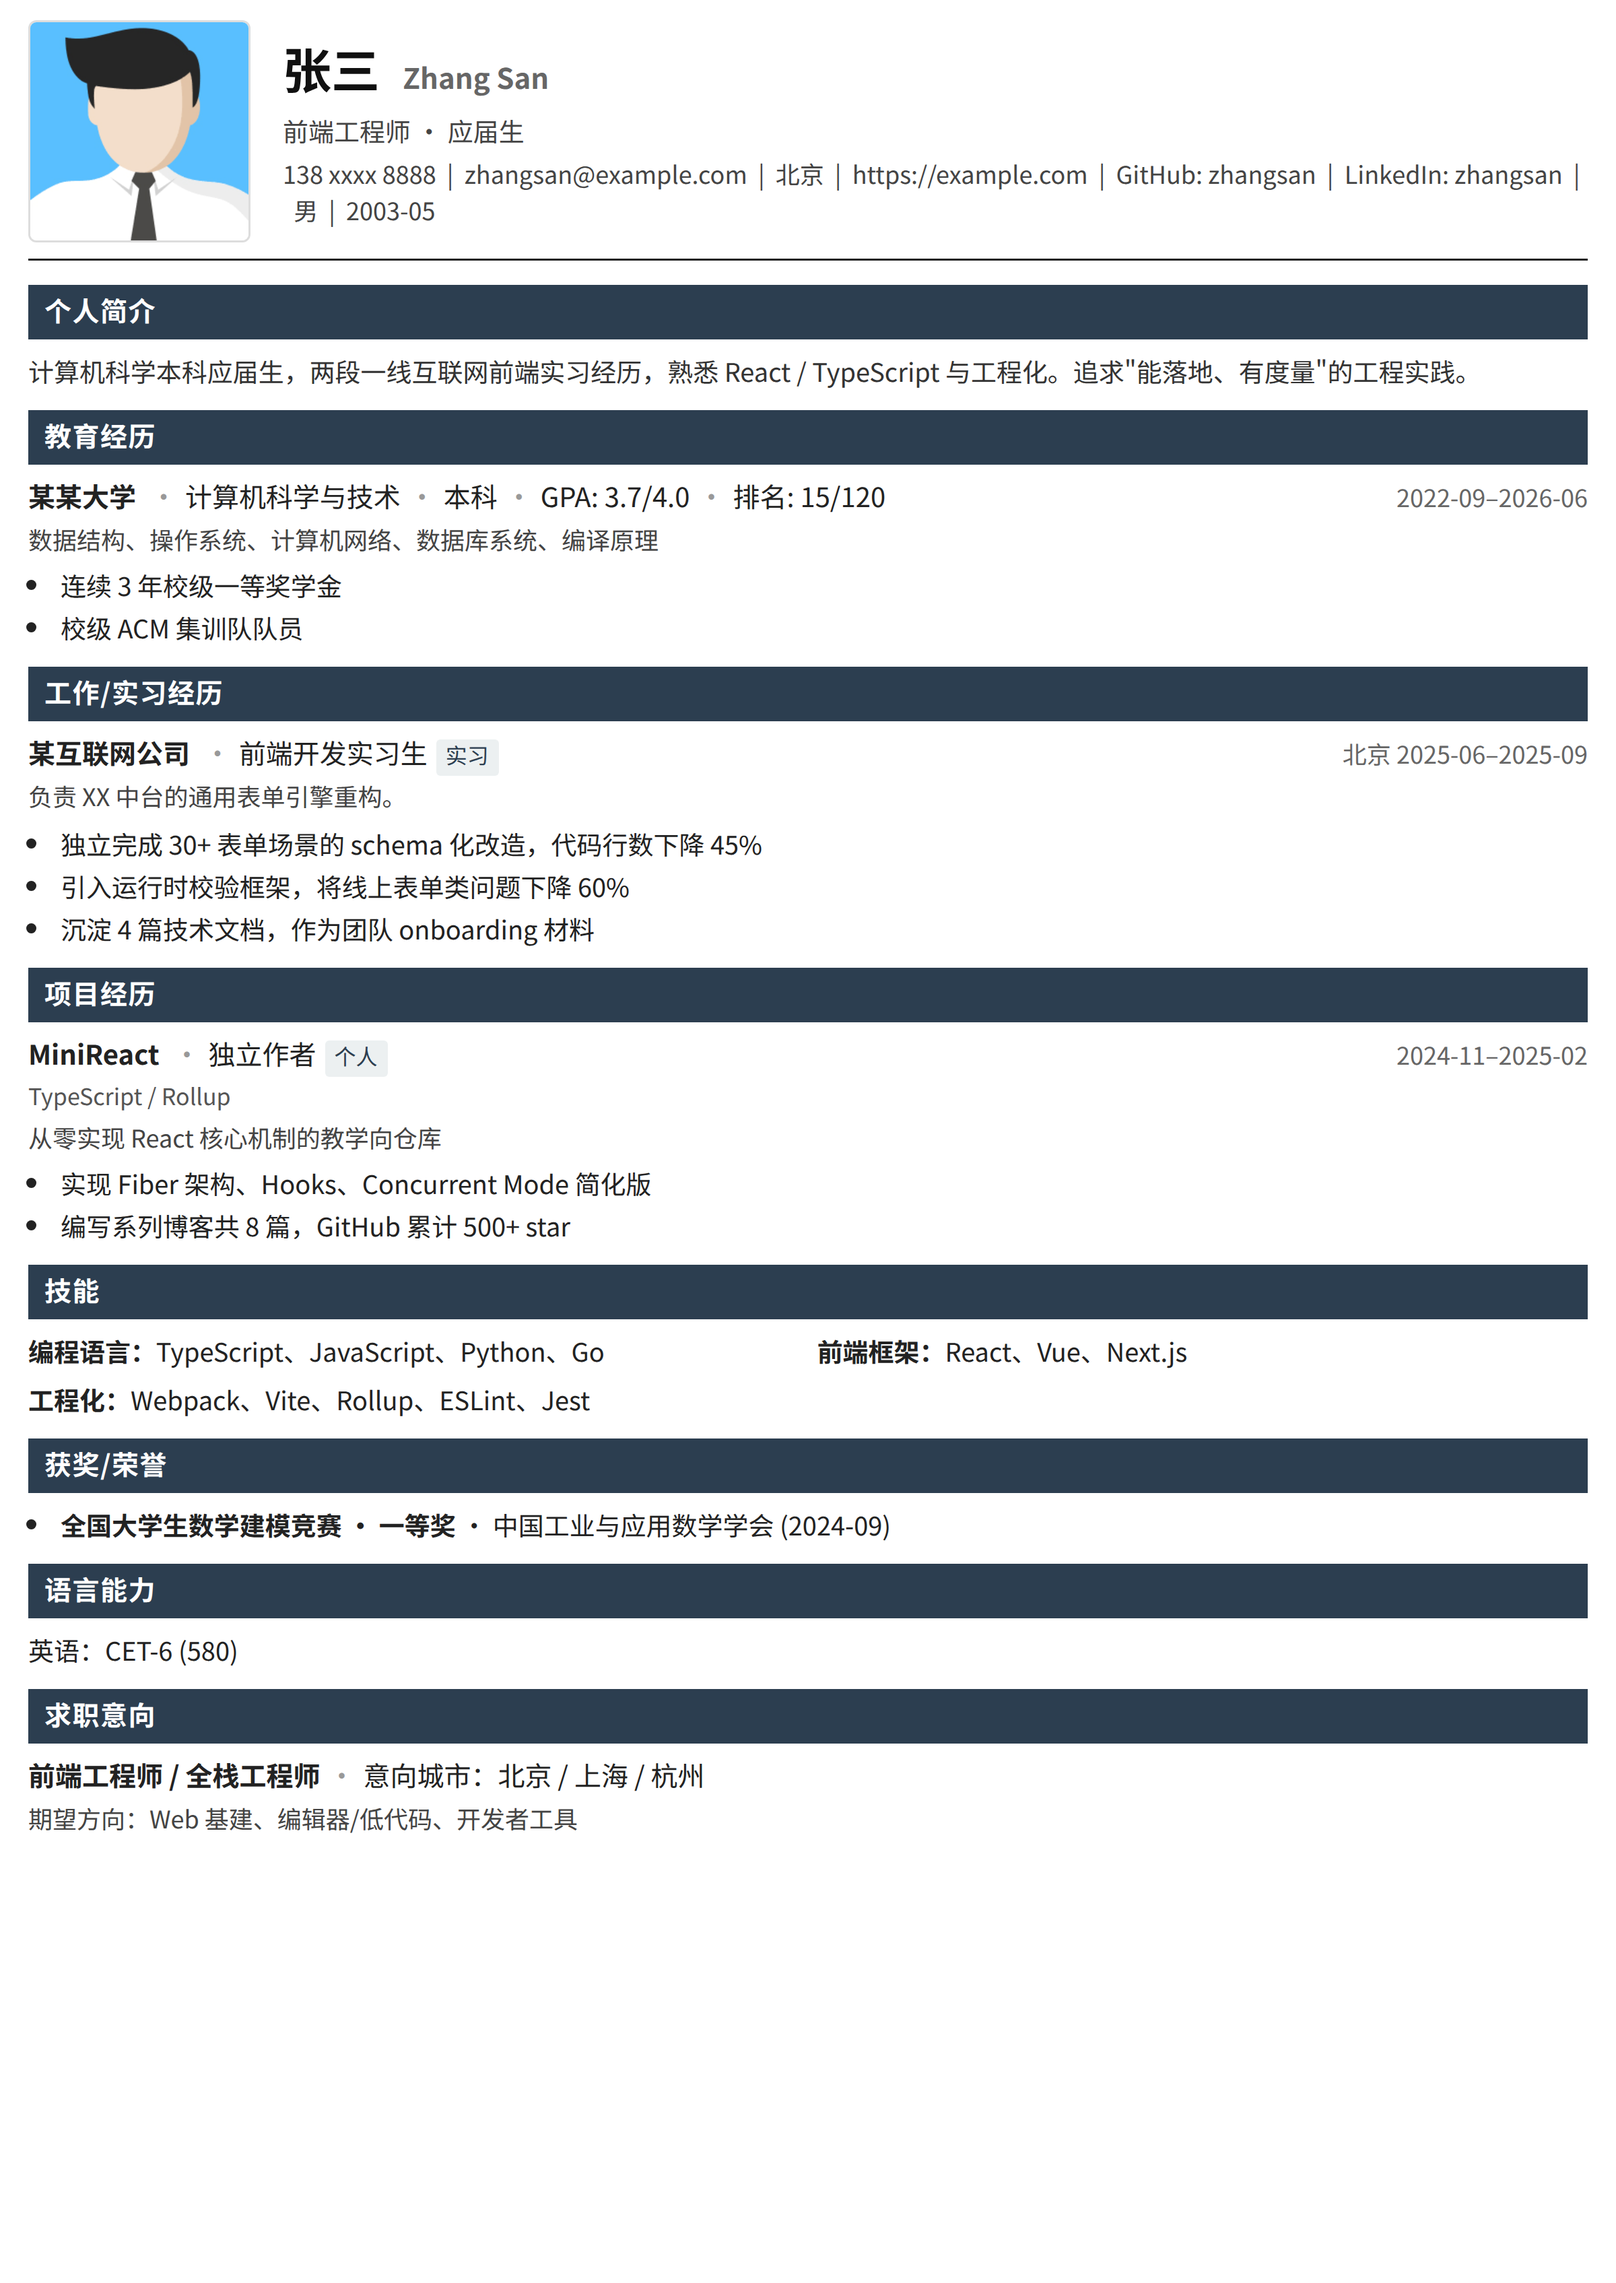
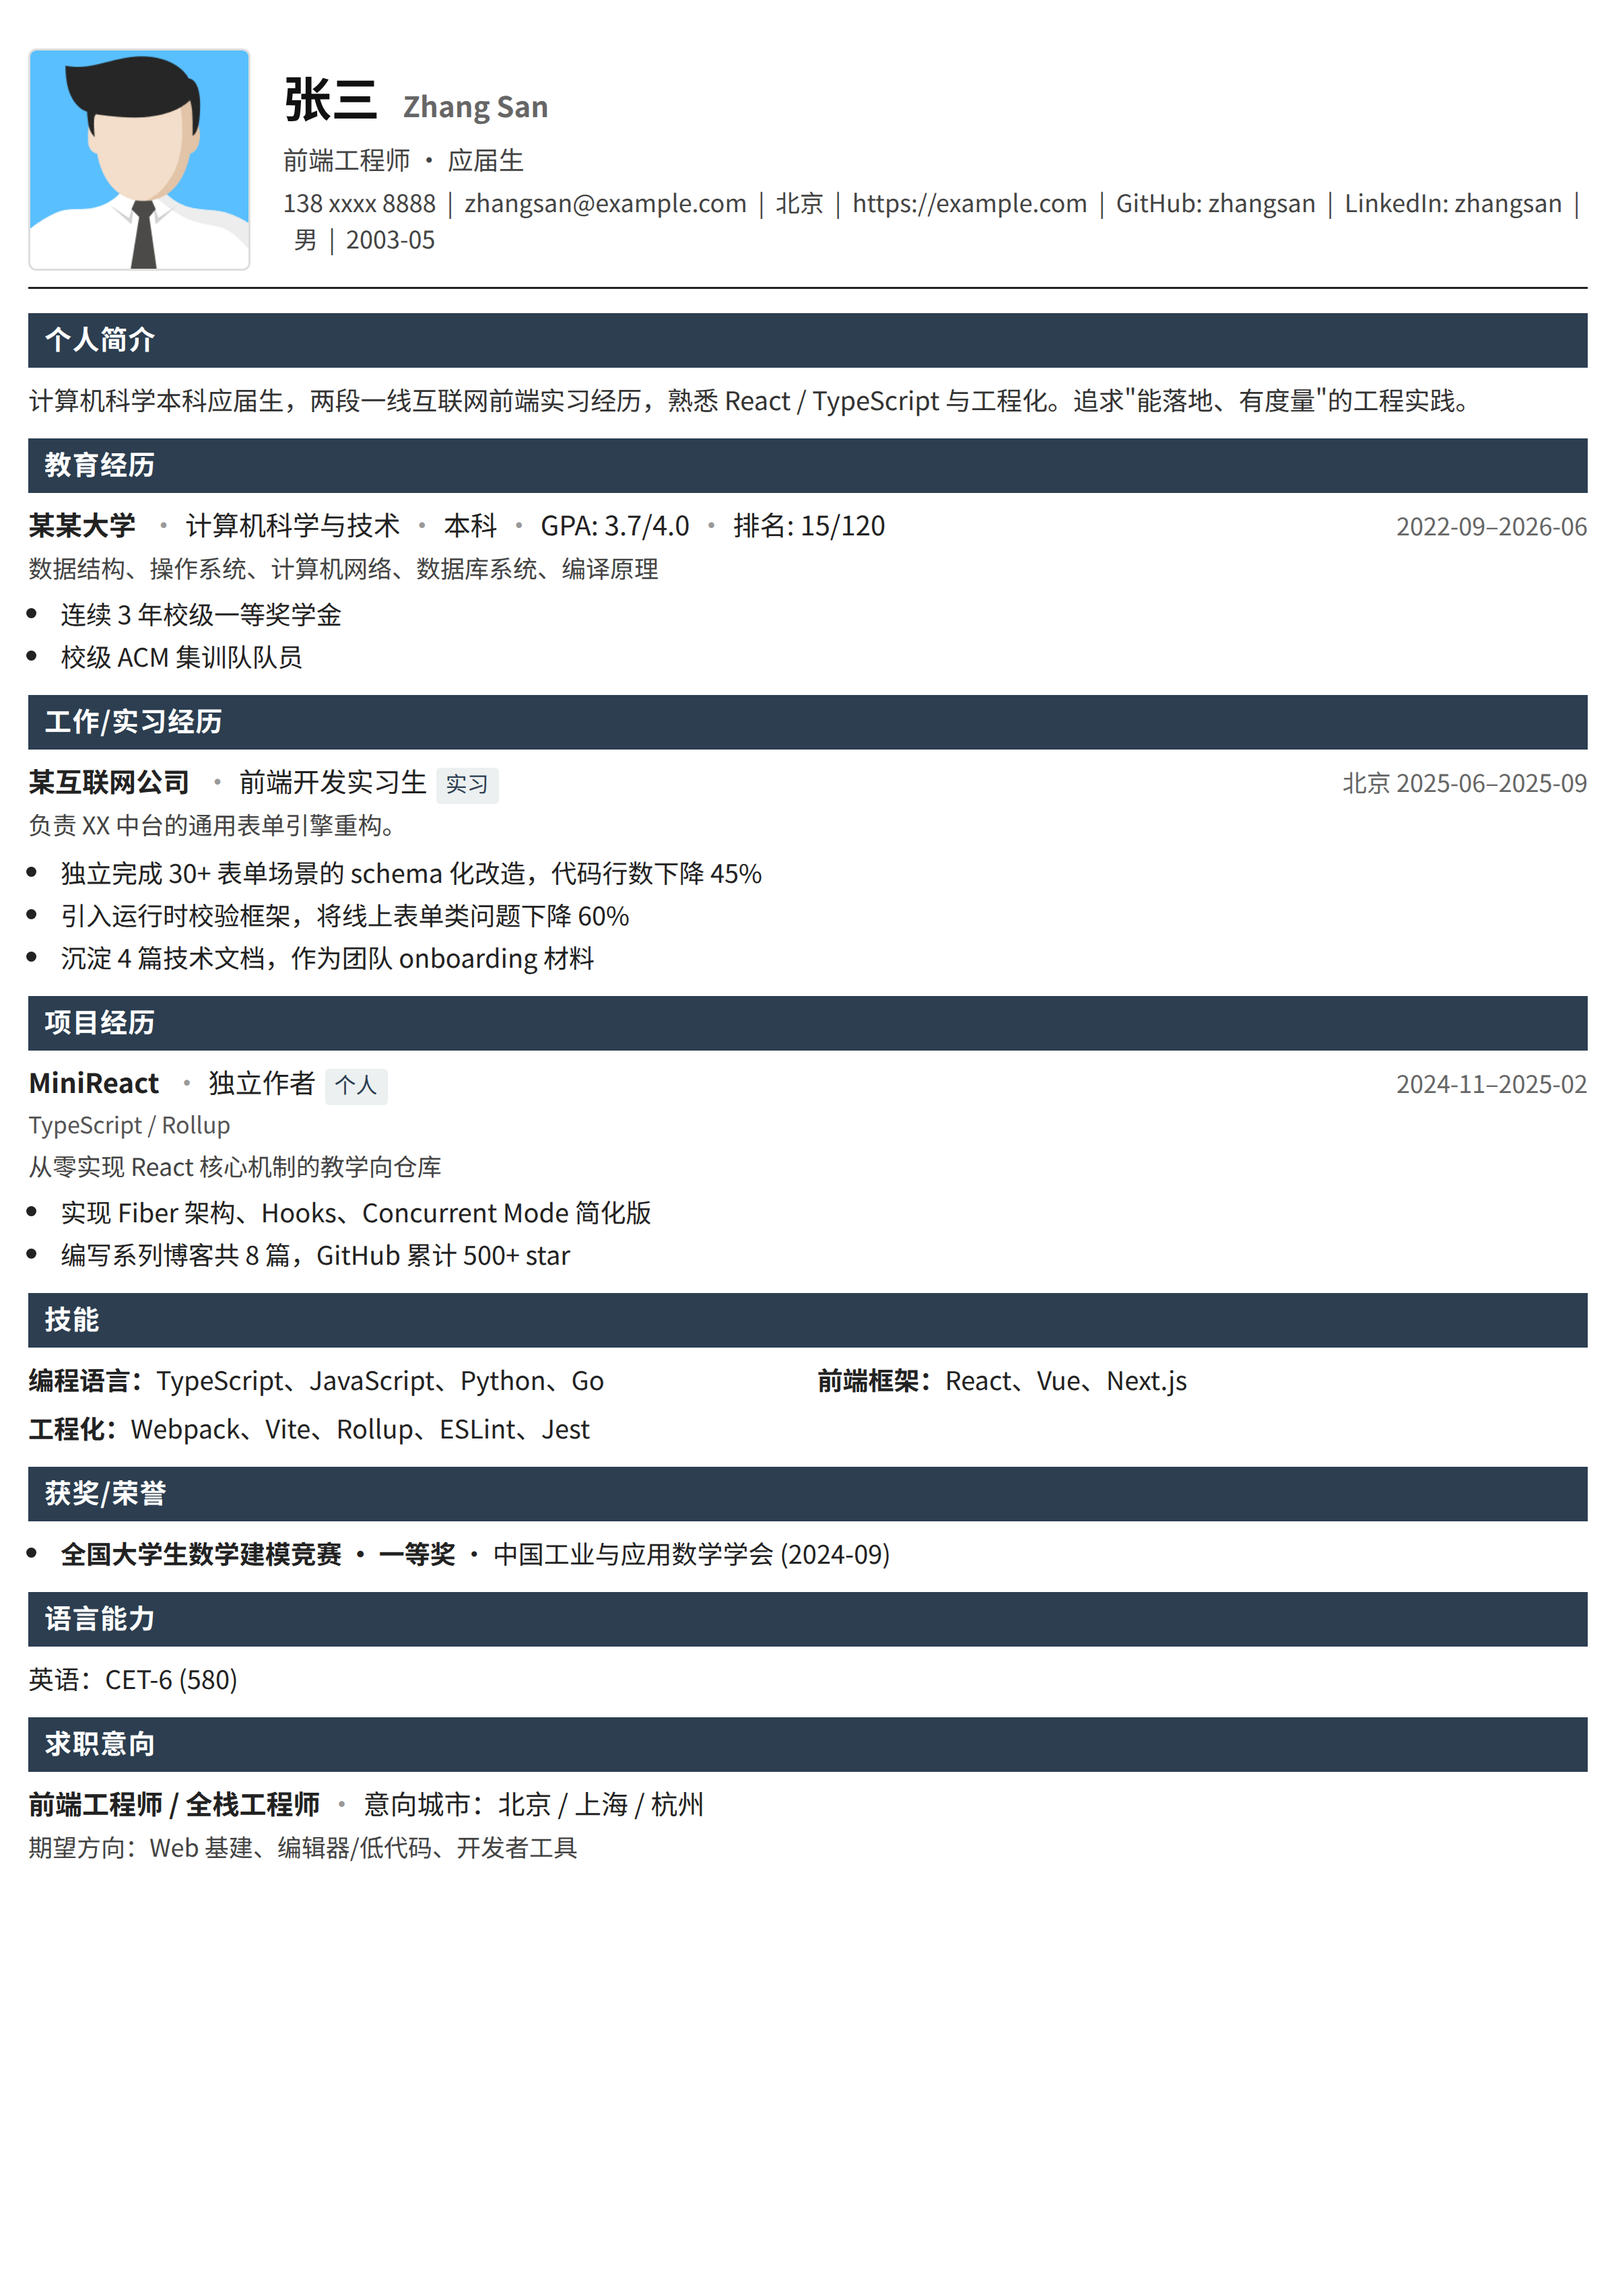
chore: auto-update preview screenshots and deploy artifacts

Changed region(s): [[0.0, 0.0, 1.0, 0.8363]]

diff --git a/modules/resume-builder/out/preview/compact-avatar/resume.html b/modules/resume-builder/out/preview/compact-avatar/resume.html
@@ -25,7 +25,7 @@ html, body {
 .resume {
   max-width: 800px;
   margin: 0 auto;
-  padding: 10px 14px;
+  padding: 24px 14px 10px;
 }
 
 /* ===== Header ===== */

diff --git a/modules/resume-builder/out/preview/compact-noavatar/resume.html b/modules/resume-builder/out/preview/compact-noavatar/resume.html
@@ -25,7 +25,7 @@ html, body {
 .resume {
   max-width: 800px;
   margin: 0 auto;
-  padding: 10px 14px;
+  padding: 24px 14px 10px;
 }
 
 /* ===== Header ===== */
